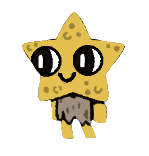
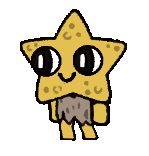
Added re-cropped images and changed follower portrait size

Changed region(s): [[0.1342, 0.0513, 0.8591, 0.9231]]

diff --git a/app.js b/app.js
@@ -518,7 +518,7 @@ function populateCurrentFollowers() {
         content +=
             `<div class="col">
                 <div class="card" style="width: 16rem;">
-                    <img src="assets/Follower_Forms/${result.SkinName}.png" onerror="this.src='assets/Follower_Forms/Unknown.png'" class="card-img-top" id="FollowerPortrait_${result.ID}" alt="Picture not available">
+                    <img src="assets/Follower_Forms/${result.SkinName}.png" onerror="this.src='assets/Follower_Forms/Unknown.png'" class="card-img-top" id="FollowerPortrait_${result.ID}" width="200px" height="230px" alt="Picture not available">
                     <div class="card-body">
                         <h5 class="card-title">
                             ${result.Name}
